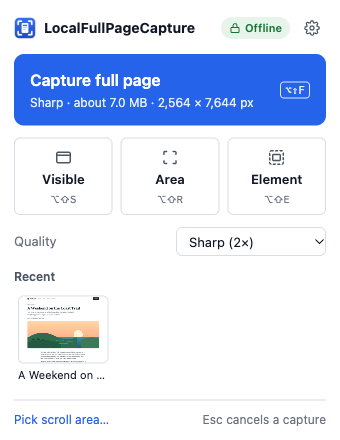
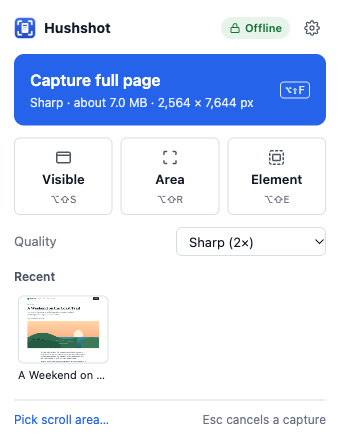
Rename the extension to Hushshot
LocalFullPageCapture is now Hushshot: the name in Chrome, the popup,
settings, page titles, PDF metadata, the default download folder,
README, PERMISSIONS.md and the website (links point to the renamed
repository). Website screenshots were retaken. Internal identifiers
such as the database name stay the same, so captures and settings
are kept.

Changed region(s): [[0.1176, 0.0295, 0.5882, 0.0886]]

diff --git a/docs/index.html b/docs/index.html
@@ -3,7 +3,7 @@
 <head>
 <meta charset="utf-8">
 <meta name="viewport" content="width=device-width, initial-scale=1, viewport-fit=cover">
-<title>LocalFullPageCapture: private full-page screenshots for Chrome</title>
+<title>Hushshot: private full-page screenshots for Chrome</title>
 <meta name="description" content="Capture whole web pages in sharp 2× to 4× quality. Save as PNG or a searchable PDF, crop, and copy text, even from images. Free, no account, no uploads.">
 <meta name="referrer" content="no-referrer">
 <link rel="icon" href="images/icon-32.png" sizes="32x32">
@@ -13,13 +13,13 @@
 <body>
 <header class="nav">
   <div class="wrap">
-    <a class="brand" href="./"><img src="images/icon-32.png" width="26" height="26" alt="">LocalFullPageCapture</a>
+    <a class="brand" href="./"><img src="images/icon-32.png" width="26" height="26" alt="">Hushshot</a>
     <nav class="nav-links" aria-label="Site">
       <a href="#features" class="hide-sm">Features</a>
       <a href="#privacy" class="hide-sm">Privacy</a>
       <a href="#install">Install</a>
       <a href="help.html">Help</a>
-      <a href="https://github.com/varunshinde/LocalFullPageCapture">GitHub</a>
+      <a href="https://github.com/varunshinde/Hushshot">GitHub</a>
     </nav>
   </div>
 </header>
@@ -31,7 +31,7 @@
       <h1>Full-page screenshots that never leave your computer</h1>
       <p class="lede">Capture whole web pages in sharp 2× to 4× quality. Save them as PNG or a searchable PDF, crop them, and copy their text, even from images.</p>
       <div class="ctas">
-        <a class="btn primary" href="https://github.com/varunshinde/LocalFullPageCapture/releases/latest">
+        <a class="btn primary" href="https://github.com/varunshinde/Hushshot/releases/latest">
           <svg viewBox="0 0 24 24" fill="none" stroke="currentColor" stroke-width="2.2" stroke-linecap="round" stroke-linejoin="round" aria-hidden="true"><path d="M12 3v12M7 10l5 5 5-5M5 21h14"/></svg>
           Download for Chrome
         </a>
@@ -39,7 +39,7 @@
       </div>
       <div class="trust"><span>No account</span><span>No watermark</span><span>No limits</span><span>Works offline</span></div>
       <div class="frame">
-        <div class="bar"><i></i><i></i><i></i><span>LocalFullPageCapture · result</span></div>
+        <div class="bar"><i></i><i></i><i></i><span>Hushshot · result</span></div>
         <img src="images/result.png" width="1440" height="900" alt="The result page: a captured article with Download, Copy image and Copy text buttons and a zoom slider">
       </div>
     </div>
@@ -118,7 +118,7 @@
       <div class="head prose" style="margin:0">
         <span class="eyebrow">Privacy</span>
         <h2>Private by design, and tested to stay that way</h2>
-        <p class="muted">LocalFullPageCapture makes no network requests. There's no account, no analytics and no upload, and everything it needs, including the text-recognition model, is inside the extension.</p>
+        <p class="muted">Hushshot makes no network requests. There's no account, no analytics and no upload, and everything it needs, including the text-recognition model, is inside the extension.</p>
         <p class="muted">Every change runs automated tests that record each request the extension makes and fail if anything tries to leave your computer. The code is on GitHub for anyone to read.</p>
         <p><a href="privacy.html">Read the privacy policy →</a></p>
       </div>
@@ -160,23 +160,23 @@
       <div class="head prose">
         <span class="eyebrow">Install</span>
         <h2>Add it to Chrome in a minute</h2>
-        <p class="muted">LocalFullPageCapture isn't in the Chrome Web Store yet, so you add it yourself. You only do this once.</p>
+        <p class="muted">Hushshot isn't in the Chrome Web Store yet, so you add it yourself. You only do this once.</p>
       </div>
       <div class="install">
         <div class="card">
           <h3>From the download (easiest)</h3>
           <ol>
-            <li>Download the latest <a href="https://github.com/varunshinde/LocalFullPageCapture/releases/latest">LocalFullPageCapture zip</a> and unzip it.</li>
+            <li>Download the latest <a href="https://github.com/varunshinde/Hushshot/releases/latest">Hushshot zip</a> and unzip it.</li>
             <li>Open <code>chrome://extensions</code> and turn on <b>Developer mode</b> (top right).</li>
             <li>Click <b>Load unpacked</b> and choose the unzipped folder. Chrome lists what Sharp mode's permission allows (see the FAQ).</li>
-            <li>Pin it: click the puzzle-piece icon in the toolbar, then the pin next to LocalFullPageCapture.</li>
+            <li>Pin it: click the puzzle-piece icon in the toolbar, then the pin next to Hushshot.</li>
           </ol>
         </div>
         <div class="card">
           <h3>From the source code</h3>
           <ol>
             <li>Install Node.js 20+ and pnpm 10.</li>
-            <li>Clone the <a href="https://github.com/varunshinde/LocalFullPageCapture">repository</a> and run <code>pnpm install</code> then <code>pnpm build</code>.</li>
+            <li>Clone the <a href="https://github.com/varunshinde/Hushshot">repository</a> and run <code>pnpm install</code> then <code>pnpm build</code>.</li>
             <li>Load the <code>dist/chrome-mv3</code> folder with <b>Load unpacked</b> as on the left.</li>
           </ol>
           <p class="muted" style="margin-top:6px">Each release lists a SHA-256 checksum, so you can check the download matches.</p>
@@ -192,9 +192,9 @@
         <h2>FAQ</h2>
       </div>
       <details class="faq"><summary>Why does Chrome say the extension is "debugging" the tab?</summary><p>That's how Sharp mode works. It asks Chrome to draw the page again at a higher resolution, which uses Chrome's debugging interface. The bar appears only while a capture runs and closes when it ends. If you'd rather not see it, turn Sharp mode off in Settings; captures then use your screen's resolution.</p></details>
-      <details class="faq"><summary>Why does Chrome warn that it can "read and change all your data"?</summary><p>Sharp mode uses Chrome's debugger permission, and Chrome's install dialog describes everything that permission could allow. LocalFullPageCapture only attaches it to the tab you're capturing, only during the capture you started, and makes no network requests. You can turn Sharp mode off in Settings.</p></details>
+      <details class="faq"><summary>Why does Chrome warn that it can "read and change all your data"?</summary><p>Sharp mode uses Chrome's debugger permission, and Chrome's install dialog describes everything that permission could allow. Hushshot only attaches it to the tab you're capturing, only during the capture you started, and makes no network requests. You can turn Sharp mode off in Settings.</p></details>
       <details class="faq"><summary>Is anything uploaded?</summary><p>No. Captures, text recognition and file exports all happen on your computer. The extension doesn't make network requests at all, and its automated tests check that on every change.</p></details>
-      <details class="faq"><summary>Where are my files saved?</summary><p>In your Downloads folder, inside a LocalFullPageCapture folder. You can change the folder and the file name pattern in Settings.</p></details>
+      <details class="faq"><summary>Where are my files saved?</summary><p>In your Downloads folder, inside a Hushshot folder. You can change the folder and the file name pattern in Settings.</p></details>
       <details class="faq"><summary>A page didn't capture correctly. What can I try?</summary><p>For app pages that scroll inside a panel, use <b>Pick scroll area…</b> in the popup. If parts repeat or look odd, try Settings → Advanced → Method → Compatibility mode. Chrome doesn't allow extensions to capture its own pages (like <code>chrome://</code> pages or the Web Store).</p></details>
       <details class="faq"><summary>Does it work in other browsers?</summary><p>It's built and tested for Google Chrome. Other Chromium browsers such as Edge and Brave may work but aren't tested.</p></details>
       <details class="faq"><summary>Is it really free?</summary><p>Yes. There's no paid tier, no trial and no limits.</p></details>
@@ -204,12 +204,12 @@
 
 <footer class="site">
   <div class="wrap">
-    <a class="brand" href="./"><img src="images/icon-32.png" width="22" height="22" alt="">LocalFullPageCapture</a>
+    <a class="brand" href="./"><img src="images/icon-32.png" width="22" height="22" alt="">Hushshot</a>
     <span class="grow"></span>
     <a href="help.html">Help</a>
     <a href="privacy.html">Privacy policy</a>
     <a href="changelog.html">Changelog</a>
-    <a href="https://github.com/varunshinde/LocalFullPageCapture">GitHub</a>
+    <a href="https://github.com/varunshinde/Hushshot">GitHub</a>
   </div>
 </footer>
 </body>

diff --git a/docs/privacy.html b/docs/privacy.html
@@ -3,8 +3,8 @@
 <head>
 <meta charset="utf-8">
 <meta name="viewport" content="width=device-width, initial-scale=1, viewport-fit=cover">
-<title>Privacy policy · LocalFullPageCapture</title>
-<meta name="description" content="LocalFullPageCapture collects no data. Captures stay on your computer and the extension makes no network requests.">
+<title>Privacy policy · Hushshot</title>
+<meta name="description" content="Hushshot collects no data. Captures stay on your computer and the extension makes no network requests.">
 <meta name="referrer" content="no-referrer">
 <link rel="icon" href="images/icon-32.png" sizes="32x32">
 <link rel="stylesheet" href="site.css">
@@ -12,12 +12,12 @@
 <body>
 <header class="nav">
   <div class="wrap">
-    <a class="brand" href="./"><img src="images/icon-32.png" width="26" height="26" alt="">LocalFullPageCapture</a>
+    <a class="brand" href="./"><img src="images/icon-32.png" width="26" height="26" alt="">Hushshot</a>
     <nav class="nav-links" aria-label="Site">
       <a href="./#install">Install</a>
       <a href="help.html">Help</a>
       <a href="privacy.html" aria-current="page">Privacy</a>
-      <a href="https://github.com/varunshinde/LocalFullPageCapture">GitHub</a>
+      <a href="https://github.com/varunshinde/Hushshot">GitHub</a>
     </nav>
   </div>
 </header>
@@ -25,7 +25,7 @@
   <div class="wrap">
     <span class="eyebrow">Last updated 2 November 2026</span>
     <h1>Privacy policy</h1>
-    <p><b>In short: LocalFullPageCapture collects nothing.</b> It has no account, no analytics, no crash reporting and no servers. Your captures stay on your computer.</p>
+    <p><b>In short: Hushshot collects nothing.</b> It has no account, no analytics, no crash reporting and no servers. Your captures stay on your computer.</p>
 
     <h2>What the extension does with your data</h2>
     <ul>
@@ -40,23 +40,23 @@
     <p>Chrome itself may contact Google to keep extensions up to date. That is Chrome's behaviour, covered by Google's privacy policy, and not something the extension controls.</p>
 
     <h2>Permissions</h2>
-    <p>Each permission and why it's needed is explained in <a href="https://github.com/varunshinde/LocalFullPageCapture/blob/main/PERMISSIONS.md">PERMISSIONS.md</a>. The extension has no access to any website until you click its icon or press one of its shortcuts on that tab. Sharp mode uses Chrome's debugger permission; Chrome's install dialog describes it broadly, but the extension only attaches it to the tab you're capturing, during the capture.</p>
+    <p>Each permission and why it's needed is explained in <a href="https://github.com/varunshinde/Hushshot/blob/main/PERMISSIONS.md">PERMISSIONS.md</a>. The extension has no access to any website until you click its icon or press one of its shortcuts on that tab. Sharp mode uses Chrome's debugger permission; Chrome's install dialog describes it broadly, but the extension only attaches it to the tab you're capturing, during the capture.</p>
 
     <h2>This website</h2>
     <p>This site is a set of static pages hosted on GitHub Pages. It uses no cookies, no analytics and no third-party scripts or fonts. GitHub, as the host, may keep standard server logs; see GitHub's privacy statement.</p>
 
     <h2>Changes and contact</h2>
-    <p>If this policy changes, the new version will be published here and in the repository's history. Questions can be raised as an issue on <a href="https://github.com/varunshinde/LocalFullPageCapture/issues">GitHub</a>.</p>
+    <p>If this policy changes, the new version will be published here and in the repository's history. Questions can be raised as an issue on <a href="https://github.com/varunshinde/Hushshot/issues">GitHub</a>.</p>
   </div>
 </main>
 <footer class="site">
   <div class="wrap">
-    <a class="brand" href="./"><img src="images/icon-32.png" width="22" height="22" alt="">LocalFullPageCapture</a>
+    <a class="brand" href="./"><img src="images/icon-32.png" width="22" height="22" alt="">Hushshot</a>
     <span class="grow"></span>
     <a href="help.html">Help</a>
     <a href="privacy.html">Privacy policy</a>
     <a href="changelog.html">Changelog</a>
-    <a href="https://github.com/varunshinde/LocalFullPageCapture">GitHub</a>
+    <a href="https://github.com/varunshinde/Hushshot">GitHub</a>
   </div>
 </footer>
 </body>

diff --git a/docs/help.html b/docs/help.html
@@ -3,8 +3,8 @@
 <head>
 <meta charset="utf-8">
 <meta name="viewport" content="width=device-width, initial-scale=1, viewport-fit=cover">
-<title>Help · LocalFullPageCapture</title>
-<meta name="description" content="How to capture, crop, zoom and save with LocalFullPageCapture, keyboard shortcuts and fixes for common problems.">
+<title>Help · Hushshot</title>
+<meta name="description" content="How to capture, crop, zoom and save with Hushshot, keyboard shortcuts and fixes for common problems.">
 <meta name="referrer" content="no-referrer">
 <link rel="icon" href="images/icon-32.png" sizes="32x32">
 <link rel="stylesheet" href="site.css">
@@ -12,12 +12,12 @@
 <body>
 <header class="nav">
   <div class="wrap">
-    <a class="brand" href="./"><img src="images/icon-32.png" width="26" height="26" alt="">LocalFullPageCapture</a>
+    <a class="brand" href="./"><img src="images/icon-32.png" width="26" height="26" alt="">Hushshot</a>
     <nav class="nav-links" aria-label="Site">
       <a href="./#install">Install</a>
       <a href="help.html" aria-current="page">Help</a>
       <a href="privacy.html">Privacy</a>
-      <a href="https://github.com/varunshinde/LocalFullPageCapture">GitHub</a>
+      <a href="https://github.com/varunshinde/Hushshot">GitHub</a>
     </nav>
   </div>
 </header>
@@ -61,7 +61,7 @@
     </div>
 
     <h2>Sharp mode and the "debugging" bar</h2>
-    <p>Sharp mode draws the page again at 2× to 4× so text stays crisp. To do that it uses Chrome's debugging interface, so Chrome shows a bar saying LocalFullPageCapture is debugging the tab while a capture runs. It closes when the capture ends. You can turn Sharp mode off in Settings → General; captures then use your screen's resolution.</p>
+    <p>Sharp mode draws the page again at 2× to 4× so text stays crisp. To do that it uses Chrome's debugging interface, so Chrome shows a bar saying Hushshot is debugging the tab while a capture runs. It closes when the capture ends. You can turn Sharp mode off in Settings → General; captures then use your screen's resolution.</p>
 
     <h2>If something looks wrong</h2>
     <ul>
@@ -73,17 +73,17 @@
       <li><b>"This page can't be captured"</b>: Chrome doesn't let extensions capture its own pages, such as <code>chrome://</code> pages, the New Tab page or the Chrome Web Store.</li>
     </ul>
 
-    <p class="muted">Still stuck? Open an issue on <a href="https://github.com/varunshinde/LocalFullPageCapture/issues">GitHub</a> with the page address (if it's public) and a screenshot.</p>
+    <p class="muted">Still stuck? Open an issue on <a href="https://github.com/varunshinde/Hushshot/issues">GitHub</a> with the page address (if it's public) and a screenshot.</p>
   </div>
 </main>
 <footer class="site">
   <div class="wrap">
-    <a class="brand" href="./"><img src="images/icon-32.png" width="22" height="22" alt="">LocalFullPageCapture</a>
+    <a class="brand" href="./"><img src="images/icon-32.png" width="22" height="22" alt="">Hushshot</a>
     <span class="grow"></span>
     <a href="help.html">Help</a>
     <a href="privacy.html">Privacy policy</a>
     <a href="changelog.html">Changelog</a>
-    <a href="https://github.com/varunshinde/LocalFullPageCapture">GitHub</a>
+    <a href="https://github.com/varunshinde/Hushshot">GitHub</a>
   </div>
 </footer>
 </body>

diff --git a/docs/changelog.html b/docs/changelog.html
@@ -3,8 +3,8 @@
 <head>
 <meta charset="utf-8">
 <meta name="viewport" content="width=device-width, initial-scale=1, viewport-fit=cover">
-<title>Changelog · LocalFullPageCapture</title>
-<meta name="description" content="What's new in each version of LocalFullPageCapture.">
+<title>Changelog · Hushshot</title>
+<meta name="description" content="What's new in each version of Hushshot.">
 <meta name="referrer" content="no-referrer">
 <link rel="icon" href="images/icon-32.png" sizes="32x32">
 <link rel="stylesheet" href="site.css">
@@ -12,19 +12,25 @@
 <body>
 <header class="nav">
   <div class="wrap">
-    <a class="brand" href="./"><img src="images/icon-32.png" width="26" height="26" alt="">LocalFullPageCapture</a>
+    <a class="brand" href="./"><img src="images/icon-32.png" width="26" height="26" alt="">Hushshot</a>
     <nav class="nav-links" aria-label="Site">
       <a href="./#install">Install</a>
       <a href="help.html">Help</a>
       <a href="privacy.html">Privacy</a>
-      <a href="https://github.com/varunshinde/LocalFullPageCapture">GitHub</a>
+      <a href="https://github.com/varunshinde/Hushshot">GitHub</a>
     </nav>
   </div>
 </header>
 <main class="doc">
   <div class="wrap">
     <h1>Changelog</h1>
-    <p class="muted">Downloads for each version are on the <a href="https://github.com/varunshinde/LocalFullPageCapture/releases">Releases page</a>.</p>
+    <p class="muted">Downloads for each version are on the <a href="https://github.com/varunshinde/Hushshot/releases">Releases page</a>.</p>
+<h2>Unreleased: new name</h2>
+<ul>
+<li><b>LocalFullPageCapture is now Hushshot.</b> Same extension, same privacy: still no network requests, no account and no analytics. The name now appears in Chrome, the popup, settings, page titles and the PDF "Producer"/"Creator" fields.</li>
+<li>Your captures and settings are kept. New installs save to a <b>Hushshot</b> folder in Downloads. If you have changed any setting before, your current folder stays as it was; you can change it in Settings.</li>
+<li>The GitHub repository and website moved to <code>github.com/varunshinde/Hushshot</code> and <code>varunshinde.github.io/Hushshot</code>. Old GitHub links redirect; the old website address does not.</li>
+</ul>
 <h2>0.2.0 (2026-11-02): Simpler everywhere</h2>
 <h3>New look</h3>
 <ul>
@@ -119,12 +125,12 @@
 </main>
 <footer class="site">
   <div class="wrap">
-    <a class="brand" href="./"><img src="images/icon-32.png" width="22" height="22" alt="">LocalFullPageCapture</a>
+    <a class="brand" href="./"><img src="images/icon-32.png" width="22" height="22" alt="">Hushshot</a>
     <span class="grow"></span>
     <a href="help.html">Help</a>
     <a href="privacy.html">Privacy policy</a>
     <a href="changelog.html">Changelog</a>
-    <a href="https://github.com/varunshinde/LocalFullPageCapture">GitHub</a>
+    <a href="https://github.com/varunshinde/Hushshot">GitHub</a>
   </div>
 </footer>
 </body>

diff --git a/src/pages/options/App.tsx b/src/pages/options/App.tsx
@@ -115,7 +115,7 @@ export function App() {
     const url = URL.createObjectURL(new Blob([JSON.stringify(s, null, 2)], { type: 'application/json' }));
     const a = document.createElement('a');
     a.href = url;
-    a.download = 'localfullpagecapture-settings.json';
+    a.download = 'hushshot-settings.json';
     a.click();
     setTimeout(() => URL.revokeObjectURL(url), 10000);
   };
@@ -134,7 +134,7 @@ export function App() {
       <nav class="side" aria-label="Settings sections">
         <div class="brand">
           <img src="/icons/icon-32.png" width="24" height="24" alt="" />
-          <span>LocalFullPageCapture</span>
+          <span>Hushshot</span>
         </div>
         {TABS.map(([t, label]) => (
           <a key={t} href={`#${t}`} aria-current={tab === t ? 'page' : undefined} onClick={(e) => (e.preventDefault(), go(t))}>

diff --git a/wxt.config.ts b/wxt.config.ts
@@ -22,7 +22,7 @@ export default defineConfig({
   manifest: ({ mode }) => {
     const e2e = mode === 'e2e';
     return {
-      name: e2e ? 'LocalFullPageCapture (E2E)' : 'LocalFullPageCapture',
+      name: e2e ? 'Hushshot (E2E)' : 'Hushshot',
       description: 'Private, offline screenshots with searchable PDF export and on-device OCR. No network, no telemetry.',
       minimum_chrome_version: '120',
       permissions: PERMISSIONS,
@@ -34,7 +34,7 @@ export default defineConfig({
       },
       icons: { 16: 'icons/icon-16.png', 32: 'icons/icon-32.png', 48: 'icons/icon-48.png', 128: 'icons/icon-128.png' },
       action: {
-        default_title: 'LocalFullPageCapture',
+        default_title: 'Hushshot',
         default_icon: { 16: 'icons/icon-16.png', 32: 'icons/icon-32.png', 48: 'icons/icon-48.png' },
       },
       commands: {

diff --git a/src/lib/capture/restricted.ts b/src/lib/capture/restricted.ts
@@ -6,7 +6,7 @@ export const RESTRICTED_MESSAGE =
   "Chrome doesn't allow capturing this page. Browser pages (chrome://, about:, the New Tab page), the Chrome Web Store and other extensions' pages are protected.";
 
 export const FILE_URL_MESSAGE =
-  'To capture local files, enable "Allow access to file URLs" for LocalFullPageCapture in chrome://extensions.';
+  'To capture local files, enable "Allow access to file URLs" for Hushshot in chrome://extensions.';
 
 const BLOCKED_SCHEMES = ['chrome:', 'chrome-untrusted:', 'chrome-search:', 'chrome-extension:', 'edge:', 'about:', 'devtools:', 'view-source:', 'brave:', 'opera:', 'vivaldi:'];
 const BLOCKED_HOSTS = ['chromewebstore.google.com', 'microsoftedge.microsoft.com'];

diff --git a/test/e2e/pdf.spec.ts b/test/e2e/pdf.spec.ts
@@ -48,7 +48,7 @@ test('multi-page A4 PDF is searchable, selectable and aligned with the image', a
   expect(doc.pages[0].width).toBeCloseTo(595.28, 1);
   expect(doc.info.Title).toBe('Long article fixture');
   expect(doc.info.Subject).toMatch(/article\.html$/);
-  expect(doc.info.Producer).toBe('LocalFullPageCapture');
+  expect(doc.info.Producer).toBe('Hushshot');
   const pdfText = norm(doc.pages.map((p) => p.items.map((i) => i.str).join(' ')).join(' '));
   const domText = norm(await page.evaluate(() => document.getElementById('content')!.innerText));
   const cer = characterErrorRate(domText.replace(/\s/g, ''), pdfText.replace(/\s/g, ''));

diff --git a/src/lib/pdf/build.ts b/src/lib/pdf/build.ts
@@ -167,8 +167,8 @@ export async function buildPdf(pages: PdfPageInput[], meta: PdfMeta): Promise<Ui
   const doc = await PDFDocument.create({ updateMetadata: false });
   doc.setTitle(meta.title, { showInWindowTitleBar: true });
   doc.setSubject(meta.subject);
-  doc.setProducer('LocalFullPageCapture');
-  doc.setCreator('LocalFullPageCapture');
+  doc.setProducer('Hushshot');
+  doc.setCreator('Hushshot');
   doc.setCreationDate(meta.created);
   doc.setModificationDate(meta.created);
   const ctx = doc.context;

diff --git a/test/unit/pdf.test.ts b/test/unit/pdf.test.ts
@@ -59,7 +59,7 @@ describe('pdf', () => {
     });
     const { meta, pages } = await pdfText(bytes);
     expect((meta.info as Record<string, string>).Title).toBe('Test page');
-    expect((meta.info as Record<string, string>).Producer).toBe('LocalFullPageCapture');
+    expect((meta.info as Record<string, string>).Producer).toBe('Hushshot');
     const text = pages[0].items.map((i) => i.str).join('');
     expect(text.replace(/\s+/g, ' ').trim()).toContain('Hello wörld');
     expect(text).toContain('Next');

diff --git a/src/pages/popup/App.tsx b/src/pages/popup/App.tsx
@@ -112,7 +112,7 @@ export function App() {
     <main>
       <header class="row">
         <img src="/icons/icon-32.png" width="22" height="22" alt="" />
-        <strong class="grow">LocalFullPageCapture</strong>
+        <strong class="grow">Hushshot</strong>
         <span class="offline" title="Nothing leaves your computer: no account, no uploads, no network requests.">
           <IconLock size={12} /> Offline
         </span>

diff --git a/test/e2e/prod.spec.ts b/test/e2e/prod.spec.ts
@@ -17,7 +17,7 @@ test('production build: Chrome grants Sharp mode its debugger permission at inst
     granted: await chrome.permissions.contains({ permissions: ['debugger'] }),
     all: (await chrome.permissions.getAll()).permissions,
   }));
-  expect(r.name).toBe('LocalFullPageCapture');
+  expect(r.name).toBe('Hushshot');
   expect(r.granted).toBe(true);
   expect(r.all).toContain('debugger');
   expect(r.optional).toEqual([]);
